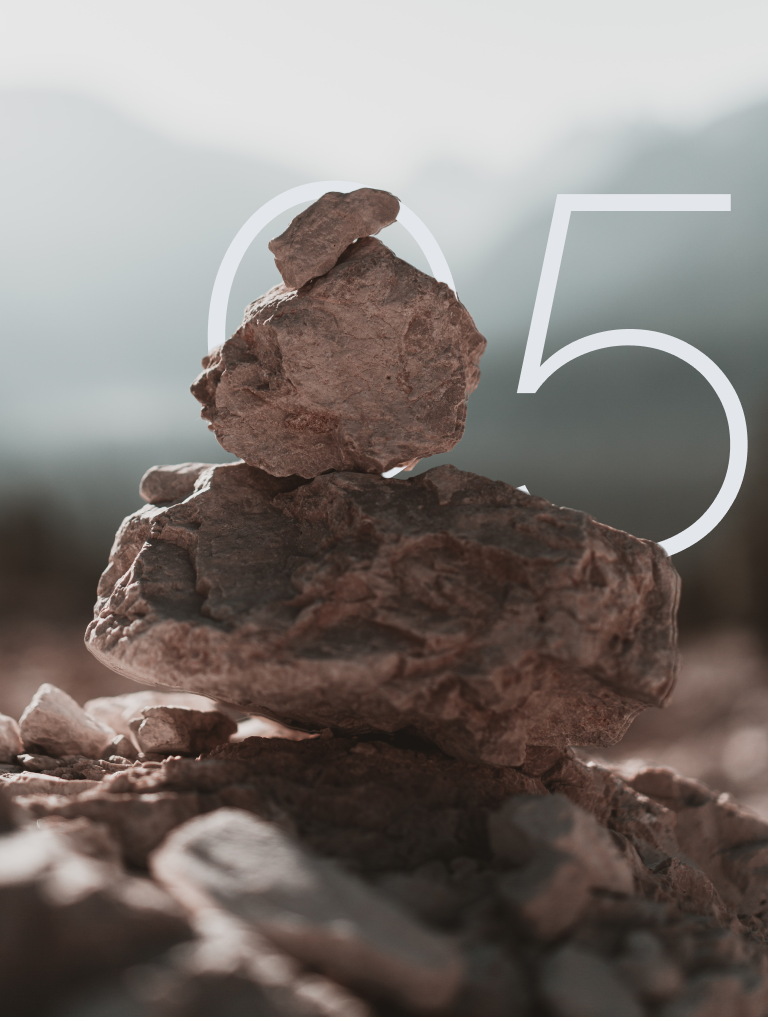
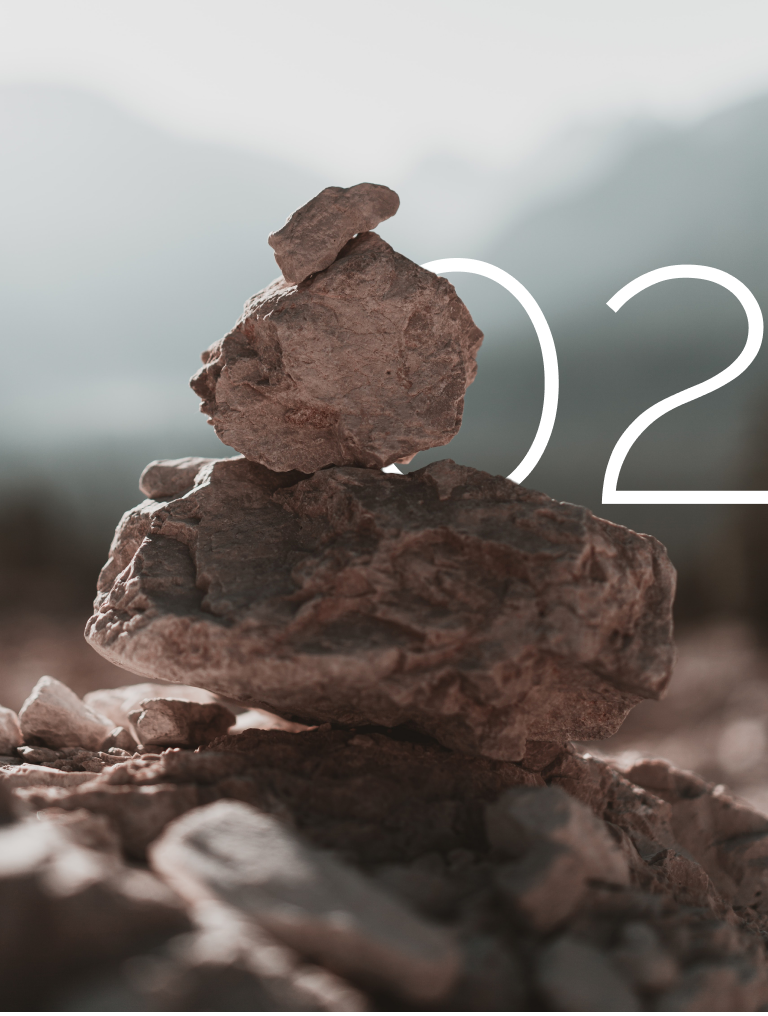
feat: update all number images

diff --git a/components/Sections/Section3.tsx b/components/Sections/Section3.tsx
@@ -6,27 +6,20 @@ import { ScrollTrigger } from "gsap/dist/ScrollTrigger";
 import Cta from "../Cta";
 
 export default function Section3() {
-  const cardRef = useRef<HTMLDivElement>(null);
-  const imageRef = useRef<HTMLImageElement>(null);
-  const numberRef = useRef<HTMLImageElement>(null);
-  const ref = useRef(null);
 
   return (
     <>
       <section
-        ref={ref}
         id="section3"
-        className="h-[1150px] md:h-[1300px] xl:h-[1400px]"
+        className="h-[1150px] md:h-[1300px] xl:h-[1200px]"
       >
         <div className="container-screen pb-16">
           <motion.div
-            // style={{ y: cardY }}
-            ref={cardRef}
             className="card
             relative xl:absolute
             text-black
             w-full
-            pt-[540px] md:pt-[812px] xl:top-[755px] xl:pt-0"
+            pt-[540px] md:pt-[812px] xl:top-[555px] xl:pt-0"
           >
             <h2 className="card__title">Devo fazer terapia?</h2>
             <p className="card__body">
@@ -39,9 +32,8 @@ export default function Section3() {
           </motion.div>
 
           <motion.picture
-            ref={imageRef}
             className="absolute right-0 z-10
-            top-[93px] md:top-[125px] xl:top-[464px]"
+            top-[93px] md:top-[125px] xl:top-[264px]"
           >
             <source
               srcSet="/images/section3/section-03-mobile.png"
@@ -62,15 +54,25 @@ export default function Section3() {
             ></img>
           </motion.picture>
 
-          <img
-            ref={numberRef}
-            className="absolute 
-            w-[270px] md:w-[373px] xl:w-fit
-            top-[282px] md:top-[500px] xl:top-[173px] 
-            left-[-49px] md:left-[53px] xl:left-[72px]"
-            srcSet="/images/section3/section-03-number.png"
-          ></img>
-          <button></button>
+
+          <picture className="absolute 
+              top-[282px] md:top-[500px] xl:top-[160px] 
+              left-[-49px] md:left-[53px] xl:left-[60px]"
+          >
+            <source
+              srcSet="/images/section3/mobile-number.png"
+              media="(max-width:767px)"
+            ></source>
+
+            <source
+              srcSet="/images/section3/tablet-number.png"
+              media="(min-width:768px) and (max-width:1279px)"
+            ></source>
+
+            <img
+              srcSet="/images/section3/desktop-number.png"
+            ></img>
+          </picture>
         </div>
       </section>
     </>

diff --git a/components/Sections/Section5.tsx b/components/Sections/Section5.tsx
@@ -10,7 +10,7 @@ const Section5 = () => {
           <div
             className="card  text-black relative md:absolute
             max-w-fit md:max-w-[380px] 
-              pt-[290px] md:pt-[650px] xl:pt-[263px]"
+              pt-[290px] md:pt-[500px] xl:pt-[400px]"
           >
             <h2 className="card__title ">Encontre um caminho</h2>
             <p className="card__body ">
@@ -38,19 +38,31 @@ const Section5 = () => {
             ></source>
 
             <img
-              alt="Devo fazer terapia?"
+              alt="Encontre um caminho"
               srcSet="/images/section5/section-05-mobile.png"
-              className="img-04-mask w-full md:w-fit max-h-[470px] md:max-h-fit"
+              className="img-05-mask w-full md:w-fit max-h-[470px] md:max-h-fit"
             ></img>
           </picture>
 
-          <img
-            className="absolute 
-            w-[307px] md:w-[428px] xl:w-fit
-            top-[77px] md:top-[294px] xl:top-0
-            left-[-50px] md:left-[112px] xl:left-[-187px]"
-            srcSet="/images/section5/section-05-number.png"
-          ></img>
+          <picture className="absolute 
+          top-[77px] md:top-[200px] xl:top-0
+          left-[-50px] md:left-[112px] xl:left-[250px]"
+          >
+            <source
+              srcSet="/images/section5/mobile-number.png"
+              media="(max-width:767px)"
+            ></source>
+
+            <source
+              srcSet="/images/section5/tablet-number.png"
+              media="(min-width:768px) and (max-width:1279px)"
+            ></source>
+
+            <img
+              srcSet="/images/section5/desktop-number.png"
+            ></img>
+          </picture>
+
         </div>
       </section>
     </>

diff --git a/components/Sections/Section1.tsx b/components/Sections/Section1.tsx
@@ -21,7 +21,7 @@ export default function Section1() {
             </h2>
             <picture className="block xl:hidden my-5 w-full"
             >
-              <source srcSet="/images/section1/section-03-tablet.png" media="(min-width:768px)">
+              <source srcSet="/images/section1/section-01-tablet.png" media="(min-width:768px)">
               </source>
               <img
                 alt="Devo fazer terapia?"
@@ -45,18 +45,22 @@ export default function Section1() {
 
           <picture
             className="absolute 
-            w-[310px] xl:w-fit z-10 xl:z-30
-            top-0 xl:top-[200px] 
-            right-0 xl:left-[-100px]"          >
+            top-0 xl:top-[500px] 
+            right-0 xl:left-[80px]"
+          >
             <source
-              srcSet="/images/section1/section-01-number.png"
-              media="(min-width:1280px)"
+              srcSet="/images/section1/mobile-number.png"
+              media="(max-width:767px)"
+            ></source>
+
+            <source
+              srcSet="/images/section1/tablet-number.png"
+              media="(min-width:768px) and (max-width:1279px)"
             ></source>
 
             <img
-              alt="Devo fazer terapia?"
-              srcSet="/images/section1/section-01-number-mobile.svg"
-              className="w-full"
+              alt="Sobre mim"
+              srcSet="/images/section1/desktop-number.png"
             ></img>
           </picture>
         </div>

diff --git a/components/Sections/Section2.tsx b/components/Sections/Section2.tsx
@@ -24,7 +24,7 @@ export default function Section2() {
     <>
       <section
         id="section2"
-        className="h-[668px] md:h-[1016px] xl:h-[1300px] bg-mobileSection5 md:bg-tabletSection5 xl:bg-none bg-cover"
+        className="h-[668px] md:h-[1016px] xl:h-[1300px] bg-mobileSection2 md:bg-tabletSection2 xl:bg-none bg-cover"
       >
         <div className="container-screen  pb-16">
           <div
@@ -92,10 +92,10 @@ export default function Section2() {
 
           <img
             className="absolute 
-            block md:hidden xl:block
-            w-[308px] xl:w-fit z-0
-            top-[85px] xl:top-[200px] 
-            left-[20px] xl:left-[592px]"
+            hidden xl:block
+            w-fit z-0
+            top-[200px] 
+            left-[592px]"
             srcSet="/images/section2/section-02-number.png"
           ></img>
         </div>

diff --git a/components/Menu.tsx b/components/Menu.tsx
@@ -11,11 +11,11 @@ export default function Menu({ menuOpen, onCloseMenu }: Props) {
   const refMenu = useRef<HTMLDivElement>(null);
 
   const sections = [
-    { name: "Devo fazer terapia?", id: "section1" },
-    { name: "Ansiedade e depressão", id: "section2" },
-    { name: "Sobre mim", id: "section3" },
-    { name: "Encontre um caminho", id: "section4" },
-    { name: "Etapas do processo", id: "section5" },
+    { name: "Sobre mim", id: "section1" },
+    { name: "Etapas do processo", id: "section2" },
+    { name: "Devo fazer terapia?", id: "section3" },
+    { name: "Ansiedade e depressão", id: "section4" },
+    { name: "Encontre um caminho", id: "section5" },
   ];
 
   useEffect(() => {

diff --git a/tailwind.config.js b/tailwind.config.js
@@ -13,11 +13,8 @@ module.exports = {
       },
       backgroundImage: {
         hero: "url('/images/bg-hero.jpg')",
-        mobileSection3: "url('/images/section3/section-03-mobile.png')",
-        tabletSection3: "url('/images/section3/section-03-tablet.png')",
-
-        mobileSection5: "url('/images/section5/section-05-mobile.png')",
-        tabletSection5: "url('/images/section5/section-05-tablet.png')",
+        mobileSection2: "url('/images/section2/section-02-mobile.png')",
+        tabletSection2: "url('/images/section2/section-02-tablet.png')",
       },
       fluidTypography: {},
     },

diff --git a/styles/globals.scss b/styles/globals.scss
@@ -75,10 +75,7 @@ body {
 }
 
 .card-backdrop-dark {
-  background: linear-gradient(180deg, #212529 0%, rgba(33, 37, 41, 0) 100%);
-  @media (min-width: 767px) {
-    background: rgba(33, 37, 41, 0.49);
-  }
+  background: rgba(33, 37, 41, 0.9);
   backdrop-filter: blur(14.5px);
 }
 
@@ -86,7 +83,7 @@ body {
   background: rgba(255, 255, 255, 0.62);
 }
 
-.img-04-mask {
+.img-05-mask {
   @media (max-width: 767px) {
     mask-image: linear-gradient(0deg , transparent, white, transparent);
    -webkit-mask-image: linear-gradient(0deg , transparent, white, transparent);
